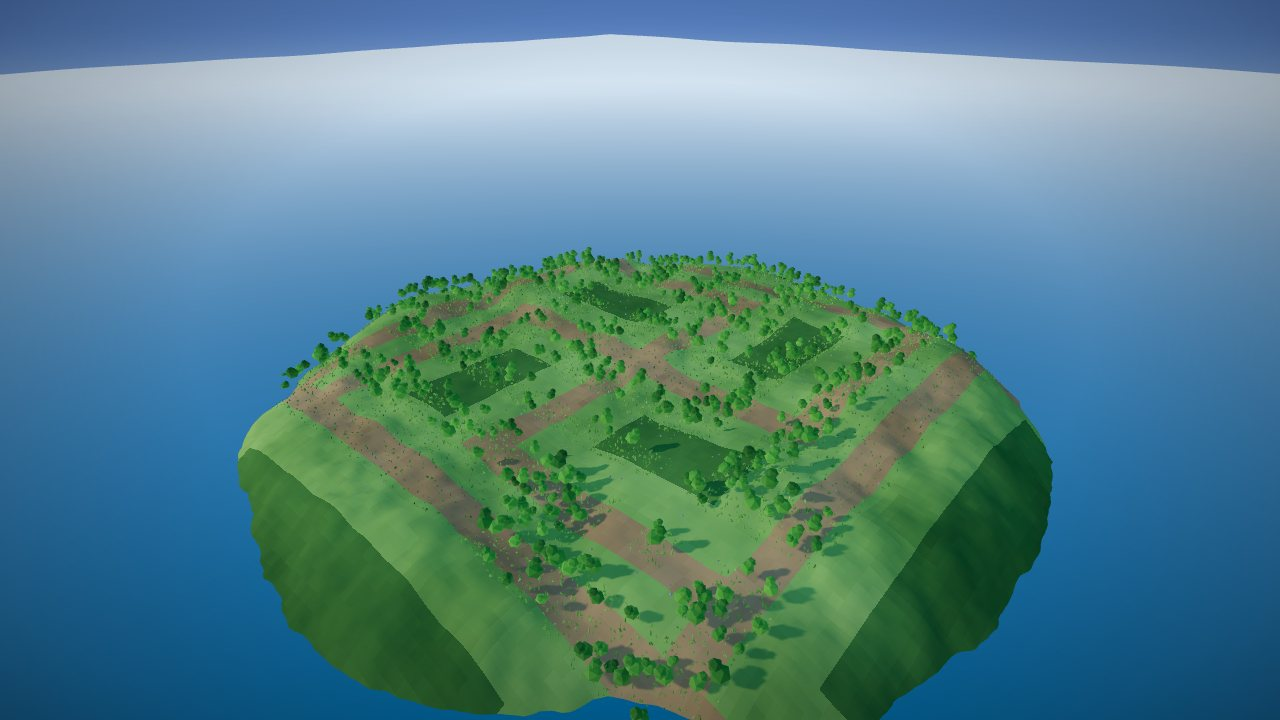
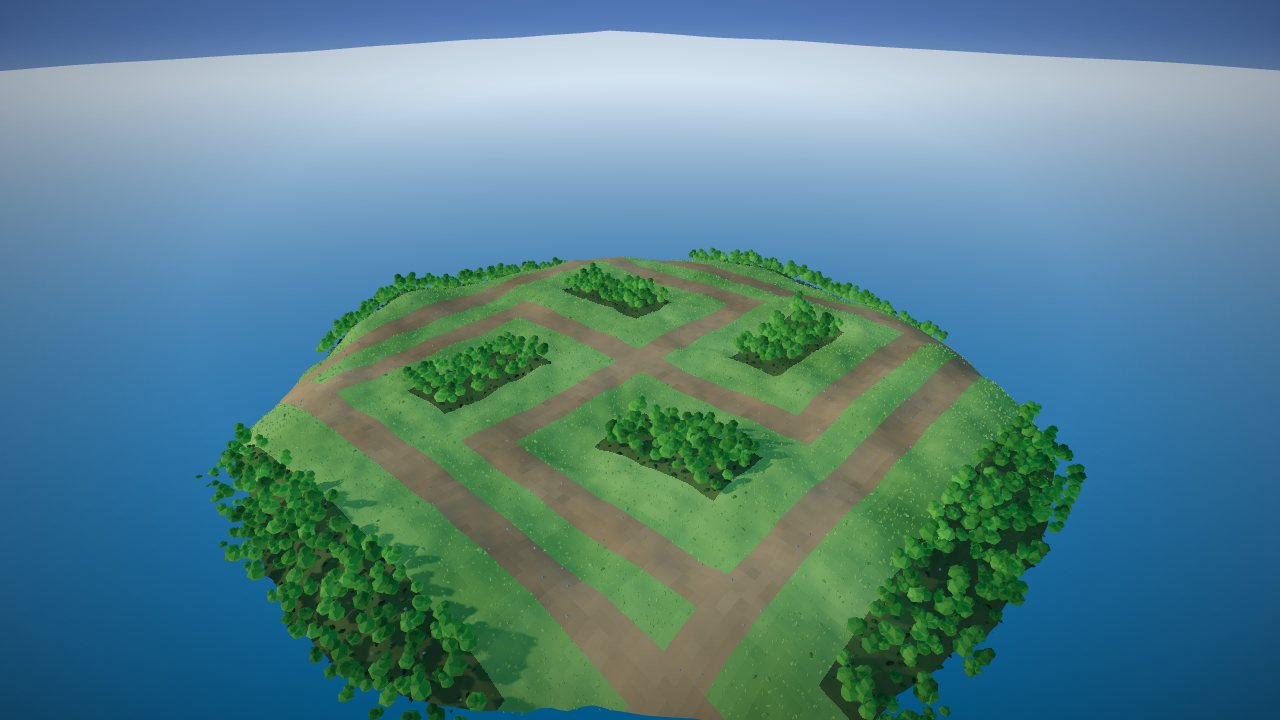
Сцена была сдвинута относительно карты на ширину поля
Рельеф рисуется на полотне шире карты: с полем вокруг, в которое
уходит берег. Текстура занимает всё полотно, а карта лежит внутри
со смещением ring. Но обе точки отсчёта хранились в одном поле
offX = -MX/2 - ring*CELL, и оно же использовалось для позиционирования
клеток. В итоге клетка cx отображалась содержимым клетки cx - ring:
вся сцена уезжала на ширину поля по обеим осям.

Отсюда картина: лесные массивы стояли рядом со своими тёмными
участками, а сами участки оставались пустыми.

Развёл два начала координат:
- originX/originZ — левый край карты: позиции объектов, маски
  рельефа, миникарта, клик по ней
- planeX/planeZ — левый край полотна: UV текстуры

Почему не поймали раньше: пока деревья стояли и на свободных, и на
занятых клетках, рассогласование в 13 клеток на глаз не читалось.
Заметной стало только после разложения наборов по типам клеток.

Проверка: тест клетка → мир → клетка обязан вернуть ту же клетку,
плюс сверка текстуры с типами из данных. На сломанном коде тест
падает (расхождение 63%), на исправленном проходит.

Заодно лесной пол: подлесок вместо травы — светлая крошка на тёмном
фоне читалась как мусор; плотность деревьев повышена, палитра
приведена к цвету лиственной подстилки.

diff --git a/tests/smoke.spec.js b/tests/smoke.spec.js
@@ -127,6 +127,66 @@ test.describe('Burrow3D', () => {
     expect(errors).toEqual([]);
   });
 
+  test('клетка, мир и текстура стоят в одной системе координат', async ({ page }) => {
+    const errors = collectErrors(page);
+    await boot(page, errors);
+
+    /* Главная проверка на рассогласование слоёв: клетка → мировая точка →
+       обратно в клетку обязана вернуть ту же клетку. Раньше начало координат
+       у полотна и у карты совпадало, и карта уезжала на ring клеток. */
+    const rt = await page.evaluate(() => {
+      const B = window.BURROW, S = B.S, M = S.M;
+      const cellToWorld = (cx, cy) => [M.originX + (cx + 0.5) * M.CELL, M.originZ + (cy + 0.5) * M.CELL];
+      const worldToCell = (x, z) => [Math.floor((x - M.originX) / M.CELL), Math.floor((z - M.originZ) / M.CELL)];
+      const bad = [];
+      for (const [cx, cy] of [[0, 0], [1, 1], [S.map.w - 1, 0], [0, S.map.h - 1],
+                              [S.map.w - 1, S.map.h - 1], [S.map.w >> 1, S.map.h >> 1]]) {
+        const [x, z] = cellToWorld(cx, cy);
+        const [bx, by] = worldToCell(x, z);
+        if (bx !== cx || by !== cy) bad.push(`${cx},${cy} -> ${bx},${by}`);
+      }
+      return { bad, originX: M.originX, ring: M.ring, planeX: M.planeX };
+    });
+    expect(rt.bad, 'клетка и мир разошлись: ' + rt.bad.join('; ')).toEqual([]);
+
+    /* Второй слой: текстура в точке клетки обязана показывать тип этой клетки.
+       Цвета берём не «похожими», а напрямую из данных палитры, а тип
+       определяем тем, какая из трёх пар цветов ближе всего к пикселю. */
+    const tex = await page.evaluate(() => {
+      const B = window.BURROW, S = B.S, M = S.M;
+      let t = null;
+      B.scene.traverse(o => { if (o.isMesh && o.material.map) t = o.material.map; });
+      const img = t.image, d = img.data, TW = img.width, TH = img.height;
+      const TYPE = ['free', 'road', 'blocked'];
+      const hex2rgb = h => [parseInt(h.slice(0, 2), 16), parseInt(h.slice(2, 4), 16), parseInt(h.slice(4, 6), 16)];
+      const pal = TYPE.map(k => S.ground[k].map(c => hex2rgb(c.toString(16))));
+      const d2 = (a, b) => (a[0] - b[0]) ** 2 + (a[1] - b[1]) ** 2 + (a[2] - b[2]) ** 2;
+      const near = rgb => pal.map(p => Math.min(...p.map(c => d2(rgb, c)))).indexOf(
+        Math.min(...pal.map(p => Math.min(...p.map(c => d2(rgb, c))))));
+      let bad = 0, n = 0, first = null;
+      // шаг 3 — не ловим границы клеток
+      for (let cy = 0; cy < S.map.h; cy += 3) {
+        for (let cx = 0; cx < S.map.w; cx += 3) {
+          const x = M.originX + (cx + 0.5) * M.CELL, z = M.originZ + (cy + 0.5) * M.CELL;
+          const u = (x + M.PX / 2) / M.PX, v = (z + M.PZ / 2) / M.PZ;
+          const tx = Math.floor(u * TW), ty = Math.floor(v * TH);
+          if (tx < 0 || ty < 0 || tx >= TW || ty >= TH) continue;
+          const i = (ty * TW + tx) * 4;
+          const drawn = near([d[i], d[i + 1], d[i + 2]]);
+          const data = S.type[cy * S.map.w + cx];
+          n++;
+          if (drawn !== data) { bad++; if (!first) first = `${cx},${cy}: данные ${TYPE[data]}, нарисовано ${TYPE[drawn]}`; }
+        }
+      }
+      return { bad, n, first, pct: +(bad / n * 100).toFixed(1) };
+    });
+    // цвета «плям» приглушены шумом, поэтому небольшой процент — норма,
+    // но треть сетки означала бы сдвиг слоя
+    expect(tex.pct, `текстура разошлась с данными на ${tex.pct}% (${tex.first})`).toBeLessThan(8);
+
+    expect(errors).toEqual([]);
+  });
+
   test('слои выключаются и включаются обратно', async ({ page }) => {
     const errors = collectErrors(page);
     await boot(page, errors);

diff --git a/index.html b/index.html
@@ -542,7 +542,12 @@ function metricsFor(map) {
   const PX = TW * CELL, PZ = TH * CELL;
   return {
     CELL, MX, MZ, ring, TW, TH, PX, PZ,
-    offX: -MX / 2 - ring * CELL, offZ: -MZ / 2 - ring * CELL,
+    // Два разных начала координат, и их нельзя смешивать:
+  //   originX — левый край САМОЙ КАРТЫ; от него считаются клетки
+  //   planeX  — левый край ПОЛОТНА (карта + поле вокруг); от него считается текстура
+  // Путаница между ними сдвигает сцену относительно карты на ring клеток.
+  originX: -MX / 2, originZ: -MZ / 2,
+  planeX: -MX / 2 - ring * CELL, planeZ: -MZ / 2 - ring * CELL,
     segX: clamp(Math.round(PX / 1.1), 24, 360), segZ: clamp(Math.round(PZ / 1.1), 24, 360),
     span: Math.max(PX, PZ),
     // кадрирование и туман считаем от размера карты: иначе набор без воды
@@ -551,8 +556,8 @@ function metricsFor(map) {
   };
 }
 const cellOf = (x, z) => [
-  Math.floor((x - S.M.offX) / CELL),
-  Math.floor((z - S.M.offZ) / CELL),
+  Math.floor((x - S.M.originX) / CELL),
+  Math.floor((z - S.M.originZ) / CELL),
 ];
 
 /* ══════════════════════════ 5. карта ══════════════════════════ */
@@ -663,7 +668,7 @@ function boxBlur(src, w, h, r, passes) {
 
 function maskAt(mask, x, z) {
   const M = S.M;
-  const fx = (x - M.offX) / CELL - 0.5, fz = (z - M.offZ) / CELL - 0.5;
+  const fx = (x - M.originX) / CELL - 0.5, fz = (z - M.originZ) / CELL - 0.5;
   const w = S.map.w, h = S.map.h;
   if (fx < -1 || fz < -1 || fx > w || fz > h) return 0;
   const x0 = clamp(Math.floor(fx), 0, w - 1), x1 = clamp(x0 + 1, 0, w - 1);
@@ -802,8 +807,8 @@ function buildScatter() {
           }
           for (let k = 0; k < count; k++) {
             const j = spec.jitter === undefined ? 0.9 : spec.jitter;
-            const wx = M.offX + (cx + 0.5 + (rnd() * 2 - 1) * 0.5 * j) * CELL;
-            const wz = M.offZ + (cy + 0.5 + (rnd() * 2 - 1) * 0.5 * j) * CELL;
+            const wx = M.originX + (cx + 0.5 + (rnd() * 2 - 1) * 0.5 * j) * CELL;
+            const wz = M.originZ + (cy + 0.5 + (rnd() * 2 - 1) * 0.5 * j) * CELL;
             const sc = Array.isArray(spec.scale) ? lerp(spec.scale[0], spec.scale[1], rnd())
                      : (spec.scale === undefined ? 1 : spec.scale);
             places.push({
@@ -1011,8 +1016,8 @@ function drawMinimap() {
   mctx.imageSmoothingEnabled = false;
   mctx.clearRect(0, 0, map.w, map.h);
   mctx.drawImage(mmBase, 0, 0);
-  const px = (camera.position.x - S.M.offX) / CELL;
-  const py = (camera.position.z - S.M.offZ) / CELL;
+  const px = (camera.position.x - S.M.originX) / CELL;
+  const py = (camera.position.z - S.M.originZ) / CELL;
   const dir = camera.getWorldDirection(_v1);
   const a = Math.atan2(dir.z, dir.x);
   const fov = camera.fov * Math.PI / 180;
@@ -1028,7 +1033,7 @@ const _v1 = new T.Vector3();
 mmc.addEventListener('click', e => {
   const r = mmc.getBoundingClientRect();
   const fx = (e.clientX - r.left) / r.width, fy = (e.clientY - r.top) / r.height;
-  const wx = S.M.offX + fx * S.map.w * CELL, wz = S.M.offZ + fy * S.map.h * CELL;
+  const wx = S.M.originX + fx * S.map.w * CELL, wz = S.M.originZ + fy * S.map.h * CELL;
   if (fly.on) exitFly();
   const ty = terrainH(wx, wz);
   controls.target.set(wx, ty, wz);

diff --git a/biomes.js b/biomes.js
@@ -68,14 +68,14 @@ window.BIOMES = {
       rimStart: 0.60, rimDrop: 26, base: 0,
     },
     ground: {
-      free: [0x63903c, 0x8ab457], road: [0x8c7047, 0xb59463], blocked: [0x3f6d28, 0x5c8a3c],
+      free: [0x63903c, 0x8ab457], road: [0x8c7047, 0xb59463], blocked: [0x4a5a2c, 0x6b7a3a],
       grain: 0.11, mottle: 0.09, speckle: 0.12,
     },
     scatter: {
       // свободная клетка проходима: только то, что переступается
       free: [
-        { b: 'tuft', per: 4, layer: 'plants', scale: [0.6, 1.55], jitter: 1,
-          colors: { blade: [0x4f8a2c, 0x76b047] } },
+        { b: 'tuft', per: 2.6, layer: 'plants', scale: [0.55, 1.25], jitter: 1,
+          colors: { blade: [0x6b9a41, 0x82ad52] } },
         { b: 'scrub', per: 0.10, layer: 'plants', scale: [0.5, 1.1], jitter: 1,
           colors: { bush: [0x5f8a3a, 0x7bab55] } },
       ],
@@ -83,14 +83,15 @@ window.BIOMES = {
         { b: 'pebble', per: 0.09, layer: 'rocks', scale: [0.45, 1.0], jitter: 0.95 },
       ],
       blocked: [
-        // занятая клетка: непроходимое
-        { b: 'conifer', per: 0.55, layer: 'plants', scale: [0.8, 1.55], jitter: 0.9, tilt: 0.05,
+        // занятая клетка: непроходимое. Плотно, иначе читается как пустой участок
+        { b: 'conifer', per: 0.92, layer: 'plants', scale: [0.85, 1.6], jitter: 0.9, tilt: 0.05,
           dens: { freq: 0.07, bias: 0.5, gain: 1.0 },
           colors: { low: [0x1f4a1c, 0x2f6b24], top: [0x275a20, 0x3a7d2a], trunk: [0x452f1c, 0x583a24] } },
-        { b: 'broadleaf', per: 0.34, layer: 'plants', scale: [0.8, 1.5], jitter: 0.9, tilt: 0.06,
+        { b: 'broadleaf', per: 0.55, layer: 'plants', scale: [0.85, 1.55], jitter: 0.9, tilt: 0.06,
           colors: { crown: [0x3d7a24, 0x59a032], crown2: [0x356c20, 0x4e8f2c], trunk: [0x54391f, 0x6b4a2a] } },
-        { b: 'tuft', per: 1.2, layer: 'plants', scale: [0.5, 1.2], jitter: 1,
-          colors: { blade: [0x3d6f24, 0x5d8f39] } },
+        // подлесок, а не трава: на тёмном полу светлая крошка читается как мусор
+        { b: 'scrub', per: 0.9, layer: 'plants', scale: [0.6, 1.35], jitter: 1,
+          colors: { bush: [0x2f5220, 0x40682c] } },
         { b: 'pebble', per: 0.05, layer: 'rocks', scale: [0.4, 0.9], jitter: 0.95 },
       ], },
     },

diff --git a/docs/CONTEXT.md b/docs/CONTEXT.md
@@ -11,6 +11,7 @@
 | Рельеф | готово | fbm + ridged-мультифрактал, дороги выравниваются и проседают, занятые клетки поднимаются |
 | Расстановка объектов | готово | 19 объектов, до 21 тыс. инстансов, сборка 40–130 мс |
 | Семантика типов клеток | готово | препятствия (`solid`) только на занятых, проверяется `npm run check` |
+| Согласование слоёв | готово | клетка, мир и текстура в одной системе; проверяется тестом round-trip |
 | Наборы оформления | готово | 7 штук: forest, desert, mountains, mars, venus, glacier, fungal |
 | Слои | готово | Растительность / Камни / Декор / Тени |
 | Камера | готово | орбита + полёт с pointer-lock и fallback на drag-look |
@@ -48,6 +49,7 @@
 | 2026-10-04 | Имя файла при сохранении очищается от символов пути и пробелов |
 | 2026-10-04 | Добавлены `scripts/check.js` (проверка данных без зависимостей) и 6 сценариев Playwright |
 | 2026-10-04 | Исправлена семантика типов клеток: препятствия убраны со свободных клеток и с дорог; в `BUILDERS` введён признак `solid`, нарушение проверяется автоматически |
+| 2026-10-04 | **Исправлен сдвиг сцены на `ring` клеток по обеим осям.** Начало координат карты и полотна были одним и тем же числом, из-за чего клетка `cx` отображалась содержимым клетки `cx − ring`. Разведены `originX/originZ` (край карты) и `planeX/planeZ` (край полотна); добавлен тест на round-trip и сверку текстуры с данными |
 
 ## Структура проекта
 
@@ -77,6 +79,23 @@ JSON карты
 
 Ключевое: `terrainH(x, z)` — единственный источник высоты. МешTerrain и расстановка объектов
 берут высоту из одной и той же функции, поэтому объекты всегда стоят на поверхности.
+
+## Две системы координат
+
+Клетки и полотно начинаются в разных местах, и путать их нельзя:
+
+| Начало | Откуда отсчитывается | Где используется |
+|--------|----------------------|------------------|
+| `originX` / `originZ` | левый край **карты** | позиции объектов, маски рельефа, миникарта, клик по ней |
+| `planeX` / `planeZ` | левый край **полотна** (карта + поле) | UV текстуры, размер полотна |
+
+Когда они совпадали, клетка `cx` отображалась содержимым клетки `cx − ring`, то есть вся
+сцена уезжала на ширину поля по обеим осям. Ошибка держалась с самого начала, но была
+незаметна: пока деревья стояли и на свободных, и на занятых клетках, рассогласование
+не читалось. Заметной ошибка стала только после того, как наборы разложили по типам клеток.
+
+Проверяется тестом `клетка → мир → клетка` (обязан вернуть ту же клетку) и сверкой
+текстуры с типами из данных.
 
 ## Семантика типов клеток
 

diff --git a/docs/DECISIONS.md b/docs/DECISIONS.md
@@ -211,3 +211,33 @@ Chrome блокирует их по `file://` (origin `null`, CORS).
 **Проверка:** `npm run check` сопоставляет `solid` с типом клетки и падает с указанием,
 что перенести. Проверено намеренной ошибкой: дерево, возвращённое на свободную клетку,
 даёт `FAIL набор «forest» → free → conifer: объект непроходимый, а стоял бы на свободной клетке`.
+
+## 2026-10-04: Начало координат карты и полотна разведены
+
+**Контекст:** рельеф рисуется на полотне шире карты — с полем вокруг, в которое уходит
+берег. Текстура занимает всё полотно, а карта лежит внутри него со смещением `ring`.
+Обе точки отсчёта хранились в одном поле `offX = -MX/2 - ring*CELL`, и оно же использовалось
+для позиционирования клеток. В итоге клетка `cx` отображалась содержимым клетки `cx - ring`:
+сцена была сдвинута на ширину поля по обеим осям.
+
+**Решение:** два отдельных начала координат.
+
+- `originX` / `originZ` — левый край карты. От него считаются позиции объектов, маски
+  дорог и занятых участков, миникарта и клик по ней.
+- `planeX` / `planeZ` — левый край полотна. От него считаются UV текстуры.
+
+**Альтернативы:** (1) хранить одно начало и каждый раз прибавлять `ring` вручную в семи
+местах — именно так и сломалось; (2) отказаться от поля и рисовать текстуру ровно по размеру
+карты — тогда нет места для берега и кромки уезжает за край.
+
+**Trade-off:** в структуре метрик на два поля больше, но `cellOf` / `cellToWorld` читаются
+однозначно.
+
+**Почему не поймали раньше.** Пока деревья стояли и на свободных, и на занятых клетках,
+рассогласование в 13 клеток было не видно на глаз. Оно проявилось только после того, как
+наборы разложили по типам клеток: лесные массивы оказались рядом с тёмными участками,
+а сами участки остались пустыми.
+
+**Проверка:** тест `клетка → мир → клетка` обязан вернуть ту же клетку, плюс сверка
+текстуры с типами из данных (допуск 8% на шум палитры, при сдвиге расхождение 63%).
+Проверено на сломанном коде: тест падает, на исправленном проходит.

diff --git a/docs/CHANGELOG.md b/docs/CHANGELOG.md
@@ -1,5 +1,21 @@
 # Burrow3D — CHANGELOG
 
+## 0.2.3 — 2026-10-04
+
+### Исправлено
+
+- **Сцена была сдвинута относительно карты на ширину поля по обеим осям.** Начало координат
+  карты и полотна хранилось одним числом, поэтому клетка `cx` отображалась содержимым клетки
+  `cx − ring`. Лесные массивы стояли рядом со своими тёмными участками, а сами участки
+  оставались пустыми. Разведены `originX/originZ` (край карты) и `planeX/planeZ` (край полотна)
+- Лесной пол: подлесок вместо травы (светлая крошка на тёмном полу читалась как мусор),
+  плотность деревьев повышена, палитра приведена к цвету лиственной подстилки
+
+### Добавлено
+
+- Тест `клетка → мир → клетка` и сверка текстуры с типами клеток: рассогласование слоёв
+  больше не пройдёт молча
+
 ## 0.2.2 — 2026-10-04
 
 ### Исправлено

diff --git a/README.md b/README.md
@@ -104,8 +104,8 @@ npm test          # 6 сценариев в Chromium: сцена, наборы, 
 
 ## Статус
 
-**v0.2.2** — тип клетки определяет, что на ней стоит: препятствия только на занятых,
-на свободных — проходимое, дорога свободна. Проверяется автоматически.
+**v0.2.3** — сцена больше не сдвинута относительно карты; тип клетки определяет, что на ней
+стоит: препятствия только на занятых, на свободных — проходимое, дорога свободна.
 
 ## Лицензия
 
